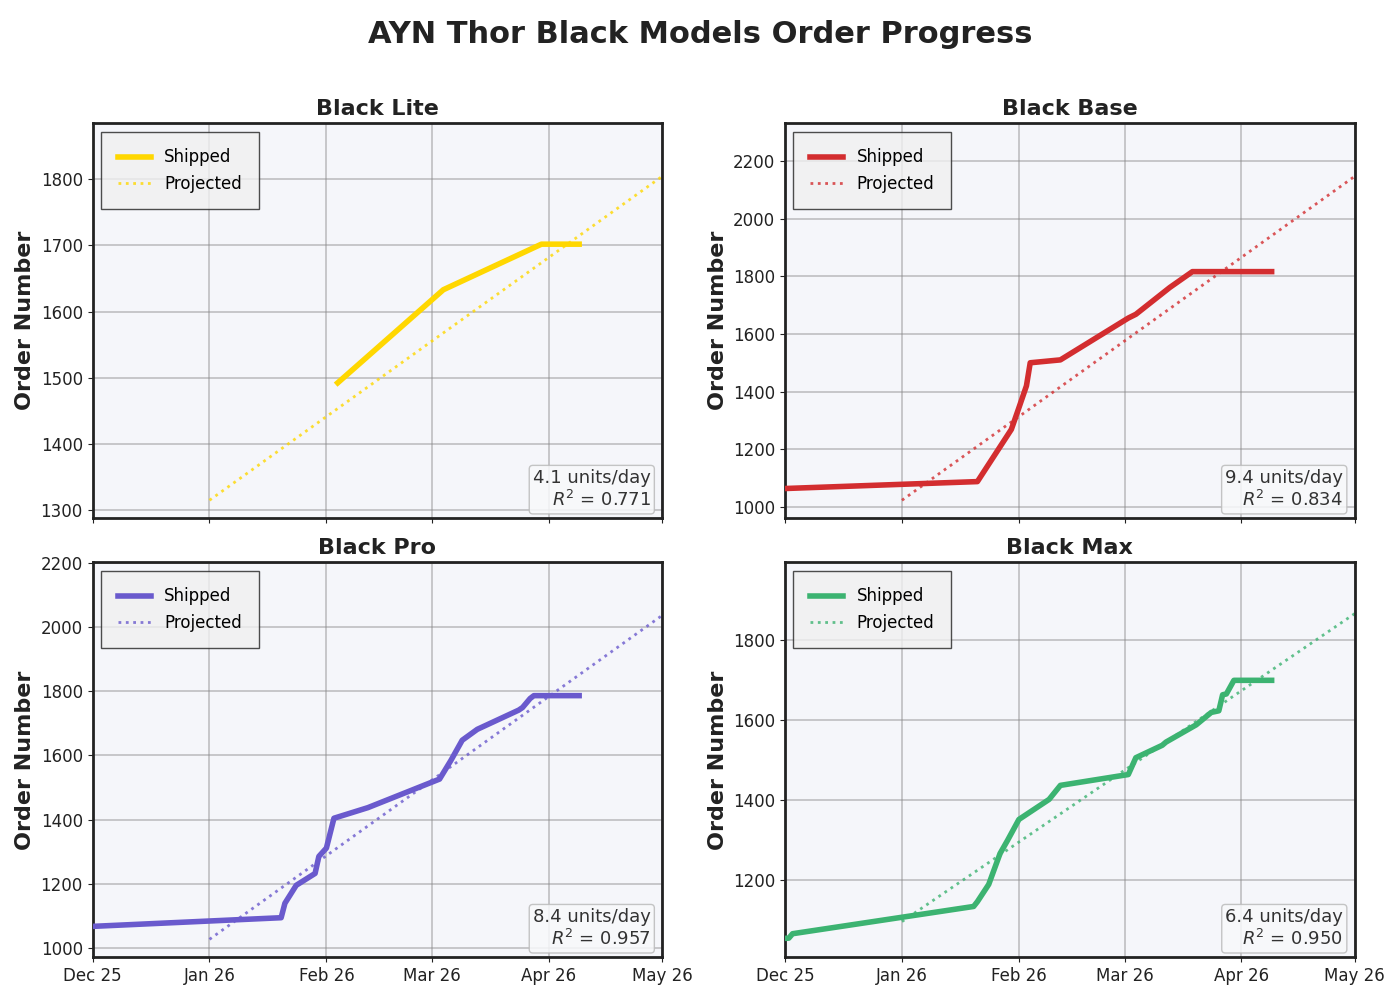
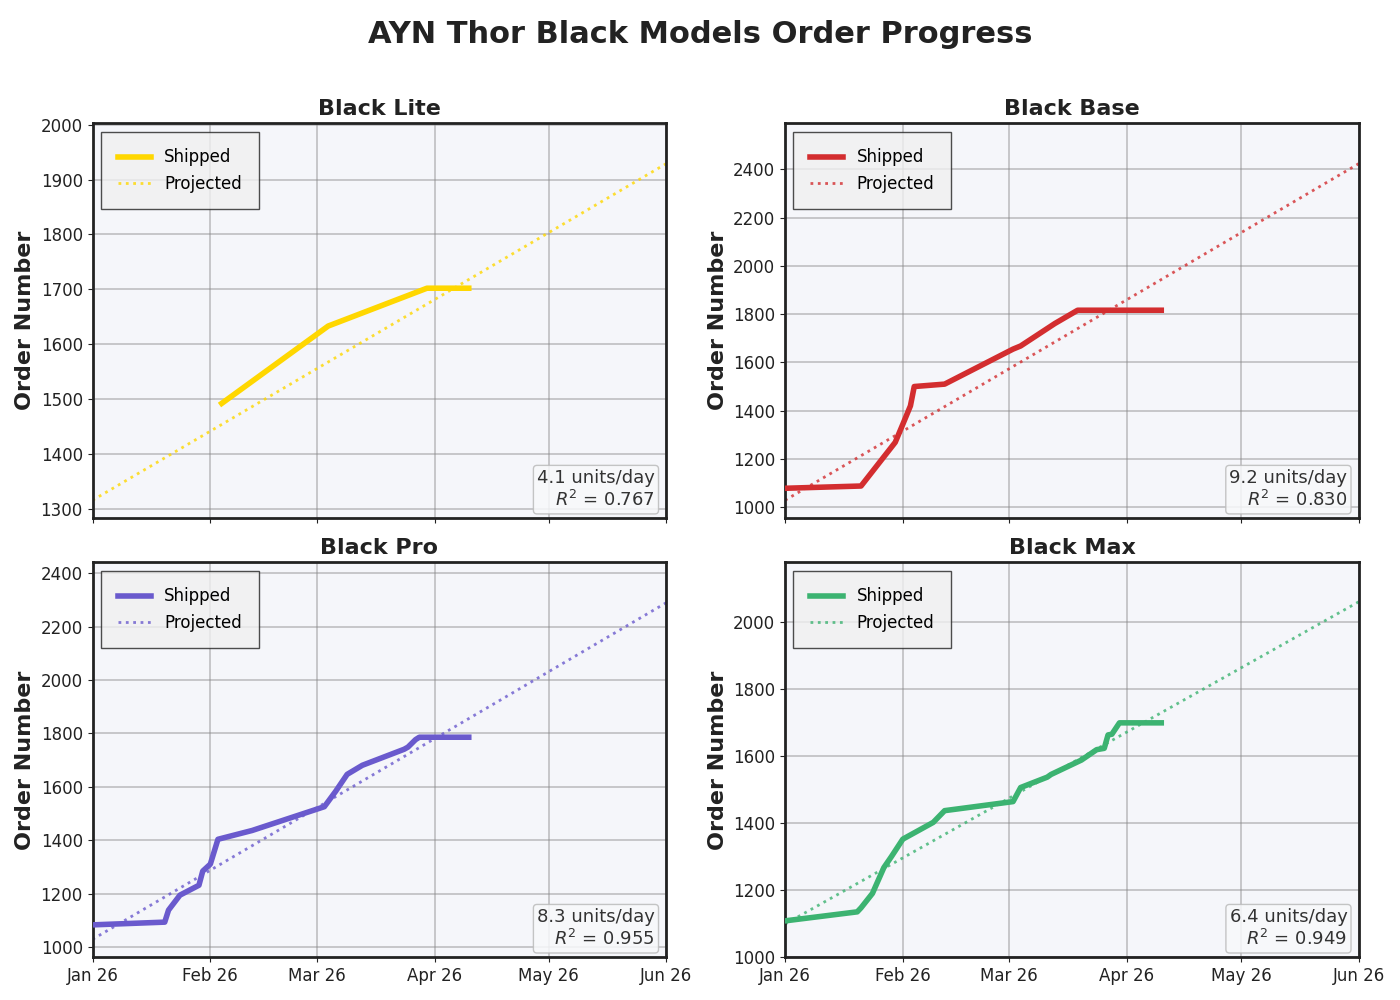
fixing graph axis

diff --git a/analysis.py b/analysis.py
@@ -224,23 +224,16 @@ def plot_black_models(output_path=None):
     axes = axes.flatten()
     # Extend x-axis 21 days past last data
     if not black_df.empty:
-        start, end = get_month_range(black_df["date"], extend_days=21)
+        _, end = get_month_range(black_df["date"], extend_days=21)
     else:
-        start, end = None, None
+        end = None
+    start = pd.Timestamp("2026-01-01")
     for idx, model in enumerate(MODEL_ORDER):
         ax = axes[idx]
         model_df = black_df[black_df["model"] == model]
         if model_df.empty:
             ax.set_visible(False)
             continue
-        # Calculate x-axis limits, skipping the first month
-        if not model_df.empty:
-            min_date = model_df["date"].min()
-            # Set start to the first day of the month after min_date
-            if min_date.month == 12:
-                start = pd.Timestamp(year=min_date.year + 1, month=1, day=1)
-            else:
-                start = pd.Timestamp(year=min_date.year, month=min_date.month + 1, day=1)
         ax.plot(
             model_df["date"],
             model_df["end"],
